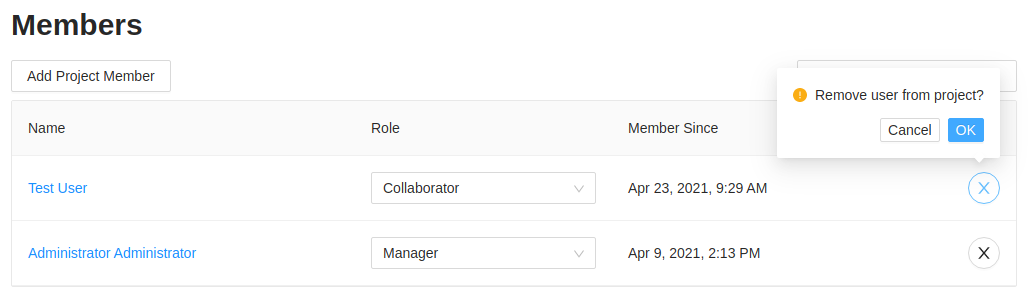
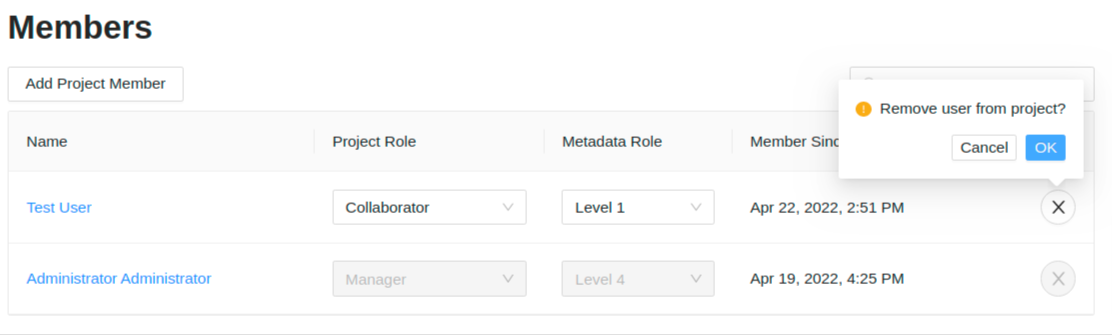
Updated docs for user project tutorial

diff --git a/doc/user/user/project/index.md b/doc/user/user/project/index.md
@@ -185,21 +185,22 @@ Administrators can change the priority of automated pipelines for a given projec
 
 Project member settings can be found in the **Members** tab in the project settings page.
 
-![Project details members tab.]({{ site.baseurl }}/images/tutorials/common/projects/project-details-members-tab.png)
+![Project details members tab.]({{ site.baseurl }}/images/tutorials/common/projects/members-overview.png)
 
-Project members are users who have permissions to view or edit project metadata. Project members can also view, download, and submit pipelines using sequencing data that's contained in a project. Project members can have two different roles: a project collaborator (*read-only* permissions), and a project manager (*read* and *modify* permissions).  A user must be a **Manager** on a project to add or remove members.
+Project members are users who have permissions to view or edit project metadata. Project members can also view, download, and submit pipelines using sequencing data that's contained in a project. Project members can have two different project roles: a project collaborator (*read-only* permissions), and a project manager (*read* and *modify* permissions). Project members also have a metadata role (Level 1, Level 2, Level 3, Level 4). Level 4 is the highest metadata role for a project. A **Manager** has a metadata role of Level 4 and this cannot be changed. Project collaborators can have one of the metadata roles assigned to them. A user must be a **Manager** on a project to add or remove members, modify project roles, and/or modify metadata roles.
 
-A project **Collaborator** will only be able to *view* the project members:
+A project **Collaborator** will only be able to *view* the project members and their project roles on the project. A collaborator can not view the metadata roles assigned to the project members:
 
-![Project members (as a collaborator).](images/project-members-collaborator.png)
+![Project members (as a collaborator).](images/members-collaborator-view.png)
 
 A project **Manager** will be able to *modify* the project members:
 
-![Project members (as a manager).](images/project-members-manager.png)
+![Project members (as a manager).](images/members-manager-view.png)
 
+### Project user groups
 Similar to project members, user groups can also be added to projects to manage collections of users.
 
-![Project details groups tab.]({{ site.baseurl }}/images/tutorials/common/projects/project-details-groups-tab.png)
+![Project details groups tab.]({{ site.baseurl }}/images/tutorials/common/projects/groups-overview.png)
 
 #### Adding a project member
 
@@ -211,17 +212,52 @@ Similar to project members, user groups can also be added to projects to manage 
 
 {% include tutorials/common/project-add-member-group.md %}
 
-#### Changing a project member role
+#### Changing a project member's project role
 
-You may want to change a project member role if you wish to remove permissions for an individual user account to modify project details, but still want to allow that user account to view the project data. You can only change a project member role if you have the **Manager** role on the project.
+You may want to change a project member's project role if you wish to remove permissions for an individual user account to modify project details, but still want to allow that user account to view the project data. You can only change a project member project role if you have the **Manager** role on the project.
 
 Start by [viewing the project members](#project-members).
 
-To change the role of a project member, click on the role drop-down menu of the user that you would like to change:
+To change the role of a project member, click on the project role drop-down menu of the user that you would like to change:
 
-![Edit project role button.](images/edit-project-role-button.png)
+![Edit project member project role.](images/change-user-project-role.png)
+
+#### Changing a project member's metadata role
+
+You may want to change a project member's metadata role if you wish to restrict an individual user from viewing certain metadata on the project. You can only change a project member's metadata role if you have the **Manager** role on the project and the member is also not a **Manager** on the project.
+
+Start by [viewing the project members](#project-members).
+
+To change the metadata role of a project member, click on the metadata role drop-down menu of the user that you would like to change:
+
+![Edit project member metadata role.](images/change-user-project-metadata-role.png)
 
 The project role is saved as soon as you make a selection -- you **do not** need to click a "Save" button.
+
+#### Changing a project user group's project role
+
+You may want to change a project user group's project role if you wish to remove permissions for members of a user group to modify project details, but still want to allow that user group to view the project data. You can only change a project user group's project role if you have the **Manager** role on the project.
+
+Start by [viewing the project user groups](#project-user-groups).
+
+To change the project role of a project user group, click on the project role drop-down menu of the user group that you would like to change:
+
+![Edit project user group project role.](images/change-usergroup-project-role.png)
+
+The project role is saved as soon as you make a selection -- you **do not** need to click a "Save" button.
+
+#### Changing a project user group's metadata role
+
+You may want to change a project user group's metadata role if you wish to restrict the members of the group from viewing certain metadata on the project. You can only change a project user group's metadata role if you have the **Manager** role on the project and the user group is also not a **Manager** on the project.
+
+Start by [viewing the project user groups](#project-usergroups).
+
+To change the metadata role of a project member, click on the metadata role drop-down menu of the user that you would like to change:
+
+![Edit project user group metadata role.](images/change-usergroup-project-metadata-role.png)
+
+The metadata role is saved as soon as you make a selection -- you **do not** need to click a "Save" button.
+
 
 #### Removing a user from a project
 
@@ -231,11 +267,27 @@ Start by [viewing the project members](#project-members).
 
 To remove a project member, click on the remove button on the right-hand side of the table:
 
-![Remove project member button.](images/remove-project-member-button.png)
+![Remove project member button.](images/remove-project-member.png)
 
 When you click the remove button, you will be asked to confirm the project member removal:
 
 ![Remove project member confirmation dialog.](images/remove-project-member-confirm.png)
+
+To confirm, click the "Ok" button.
+
+#### Removing a user group from a project
+
+You may want to completely remove all permissions for a user group to access data in a project. To remove those permissions, you must remove the user group from the project user groups list.
+
+Start by [viewing the project user groups](#project-user-groups).
+
+To remove a project user group, click on the remove button on the right-hand side of the table:
+
+![Remove project user group button.](images/remove-project-usergroup.png)
+
+When you click the remove button, you will be asked to confirm the project member removal:
+
+![Remove project user group confirmation dialog.](images/remove-project-usergroup-confirm.png)
 
 To confirm, click the "Ok" button.
 

diff --git a/doc/_includes/tutorials/common/project-add-member-group.md b/doc/_includes/tutorials/common/project-add-member-group.md
@@ -1,13 +1,13 @@
 To add a group to the project, click on the "Groups" button on the left-side of the page, then click on "Add Group":
 
-![Add project group member button.]({{ site.baseurl }}/images/tutorials/common/projects/add-group-member-button.png)
+![Add project group member button.]({{ site.baseurl }}/images/tutorials/common/projects/add-group.png)
 
-You can use the dialog that appears to select a user group, and choose the **Project Role** that the new group member should have:
+You can use the dialog that appears to select a user group. You can also select the **Project Role** and **Metadata Role** that the user group should have. If the **Project Role** is set to **Manager** then the **Metadata Role** will default to the highest level (Level 4):
 
-![Add project group member dialog.]({{ site.baseurl }}/images/tutorials/common/projects/add-group-member-modal.png)
+![Add project group member dialog.]({{ site.baseurl }}/images/tutorials/common/projects/add-group-modal.png)
 
-**Remember**: a project collaborator has *read-only* permissions, and a project *manager* is allowed to modify project details. When adding a user group, **all** members of the user group will have that project role on this project.
+**Remember**: a project collaborator has *read-only* permissions, and a project *manager* is allowed to modify project details. When adding a user group, **all** members of the user group will have that project role and metadata role on this project. If the **Project Role** is set to **Manager** then the **Metadata Role** will default to the highest level (Level 4).
 
 **Note**: If a user is added *both* as an individual member and as part of a group, the individual user project role takes precedence over the group project role. For example, if Bob is added to Project 5 as a Project Owner as an individual member, and is in a Group that's on Project 5 as a Project Member, Bob would be given Project Owner permissions to Project 5.
 
-Once you've selected the user group and role to add to the project, click on the "OK" button.
+Once you've selected the user group, project role, and metadata role to add to the project, click on the "OK" button.

diff --git a/doc/_includes/tutorials/common/project-add-member.md b/doc/_includes/tutorials/common/project-add-member.md
@@ -1,10 +1,10 @@
 To add an individual project member, click on the "Add Member" button:
 
-![Add project member button.]({{ site.baseurl }}/images/tutorials/common/projects/add-member-button.png)
+![Add project member button.]({{ site.baseurl }}/images/tutorials/common/projects/add-project-member.png)
 
-You can use the dialog that appears to select a user account, and choose the **Project Role** that the new member should have:
+You can use the dialog that appears to select a user account. You can also select the **Project Role** and **Metadata Role** that the new member should have. If the **Project Role** is set to **Manager** then the **Metadata Role** will default to the highest level (Level 4):
 
-![Add project member dialog.]({{ site.baseurl }}/images/tutorials/common/projects/add-member-modal.png)
+![Add project member dialog.]({{ site.baseurl }}/images/tutorials/common/projects/add-project-member-modal.png)
 
 **Remember**: a project collaborator has *read-only* permissions, and a project *manager* is allowed to modify project details.
 
